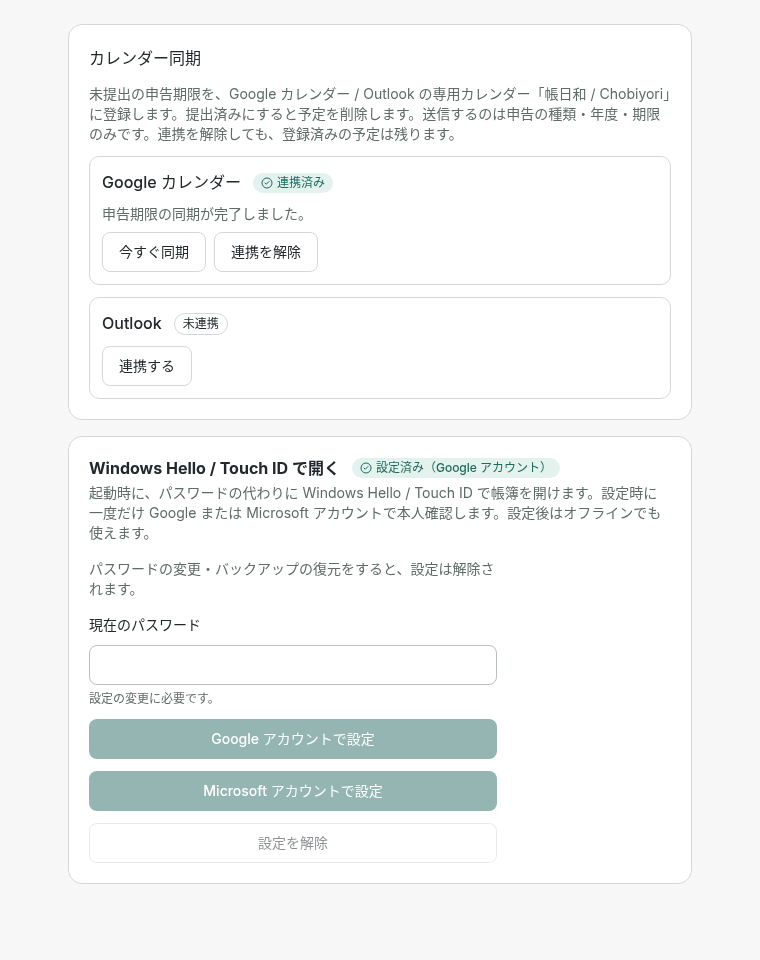
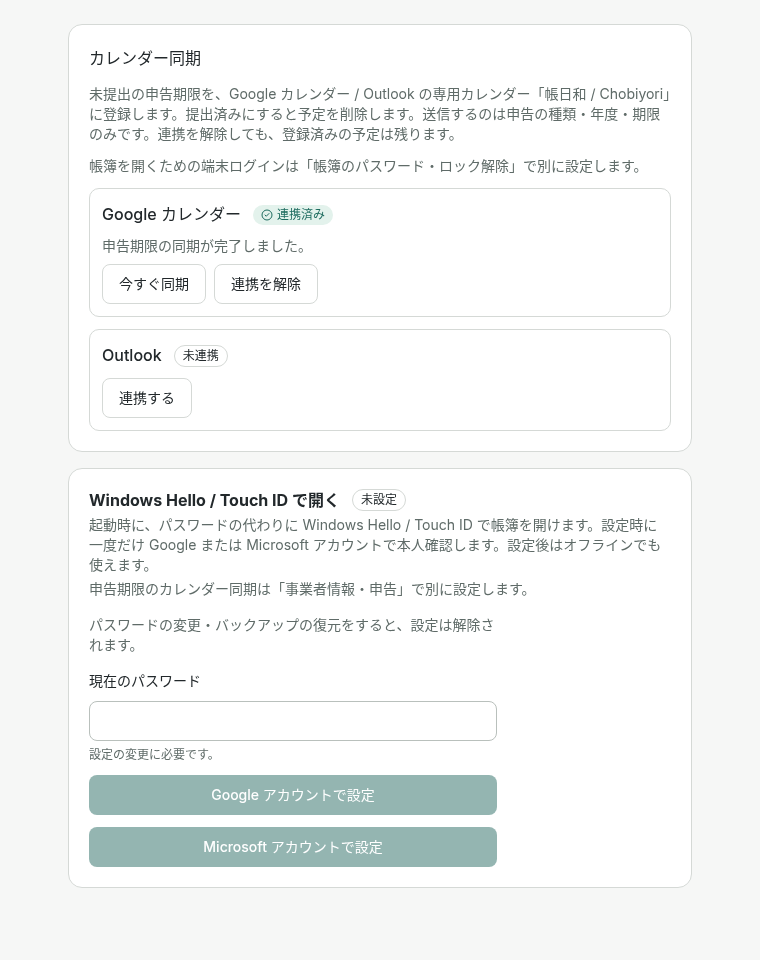
カレンダー同期と端末ログインを個別に設定することを案内する

diff --git a/src/features/filing/filing-calendar-sync.tsx b/src/features/filing/filing-calendar-sync.tsx
@@ -207,6 +207,9 @@ export function FilingCalendarSyncSettings() {
 		<div className="space-y-3 border-t pt-4">
 			<h3 className="font-medium">{t("calendarSyncTitle")}</h3>
 			<p className="text-muted-foreground text-sm">{t("calendarSyncHint")}</p>
+			<p className="text-muted-foreground text-sm">
+				{t("calendarDeviceLoginHint")}
+			</p>
 			{providers.map((provider) => (
 				<CalendarConnectionSettings key={provider} provider={provider} />
 			))}

diff --git a/src/features/security/account-login.tsx b/src/features/security/account-login.tsx
@@ -93,6 +93,7 @@ export function AccountLoginSettings() {
 					)}
 				</div>
 				<CardDescription>{t("deviceDescription")}</CardDescription>
+				<CardDescription>{t("deviceCalendarHint")}</CardDescription>
 			</CardHeader>
 			<CardContent className="flex max-w-md flex-col gap-3">
 				{available ? (
